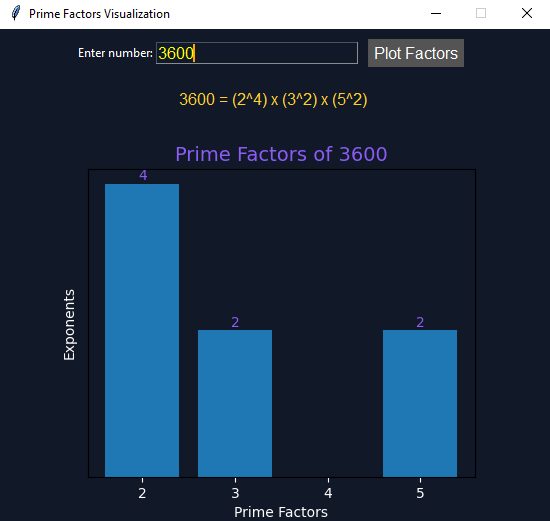
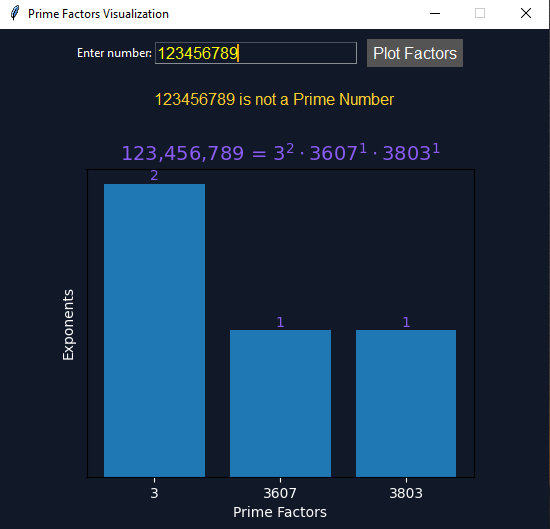
update prime

diff --git a/Prime_Factor.py b/Prime_Factor.py
@@ -71,19 +71,19 @@ def format_factors(prime_factors):
             exponent += 1
         
         # math_expression = '{' + str(exponent - 1) + '}'
-        factor_string += f" ({factor}^{exponent - 1}) x"
+        factor_string += f" {factor}^{exponent - 1} \cdot"
 
         primes.append(factor)
         exponents.append(exponent - 1)
 
     if factor_string:
-        result_label.config(text=f"{number} = {factor_string[1:-1]}", fg=YELLOW)
-    elif number >= 1:
-        result_label.config(text=f"{number} = 1 x {number}", fg=YELLOW)
+        result_label.config(text=f'{number} is not a Prime Number', fg=YELLOW)
+    elif number >= 2:
+        result_label.config(text=f"{number} is a Prime Number", fg=YELLOW)
     else:
         result_label.config(text="Please Enter a Positive Number!", fg='red')
 
-    return primes, exponents
+    return primes, exponents, factor_string
 
 
 def plot_factors():
@@ -96,13 +96,12 @@ def plot_factors():
     prime_factors = [i for i in factors if is_prime(i)]
 
     if is_prime(number):
-        print(f"{number} is a prime number")
         result_label.config(text=f"{number} = 1 x {number}", fg=YELLOW)
         primes, exponents = [1, number], [1, 1]
+        factor_string = ""
         format_color = "red"
     else:
-        print(f'{number} is NOT a prime number')
-        primes, exponents = format_factors(prime_factors)
+        primes, exponents, factor_string = format_factors(prime_factors)
         format_color = "lime"
 
     AX = figure.add_subplot()
@@ -111,10 +110,12 @@ def plot_factors():
     AX.tick_params(axis='y', colors='white')
     AX.xaxis.set_major_locator(plt.MaxNLocator(integer=True))
 
-    plt.bar(primes, exponents)
+    x_values = range(len(exponents))
+    plt.bar(x_values, exponents)
+    plt.xticks(x_values, primes)
 
     fontsize = 10 - (len(exponents) // 20)
-    for x, y in zip(primes, exponents):
+    for x, y in zip(x_values, exponents):
         plt.annotate(f"{y}",
             xy=(x, y),
             xytext=(0, 0.3),
@@ -123,9 +124,13 @@ def plot_factors():
             color=PURPLE, fontsize=fontsize
         )
 
+    if factor_string:
+        plt.title(f"{number:,} = ${factor_string[1:-6]}$", color=PURPLE, fontsize=14)
+    else:
+        plt.title(f"{number:,} = 1 x {number:,}", color=PURPLE, fontsize=14)
+
     plt.xlabel('Prime Factors', color='white')
     plt.ylabel('Exponents', color='white')
-    plt.title(f"Prime Factors of {number}", color=PURPLE, fontsize=14)
     plt.yticks([])
 
     # canvas.get_tk_widget().pack(side=tk.TOP, fill=tk.BOTH, expand=1)
